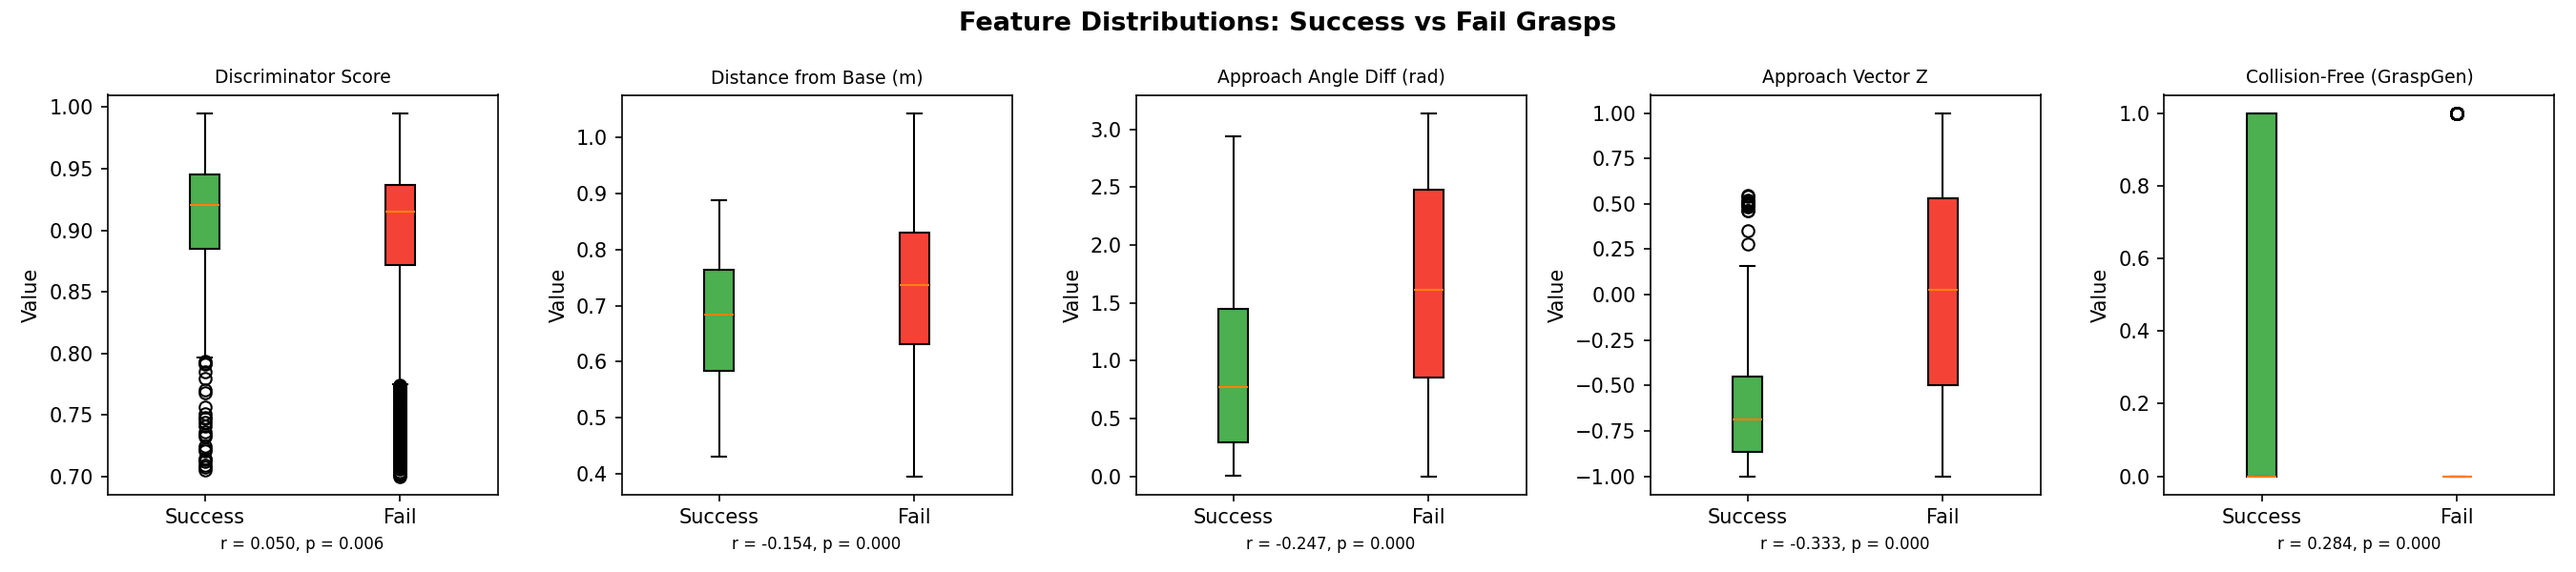
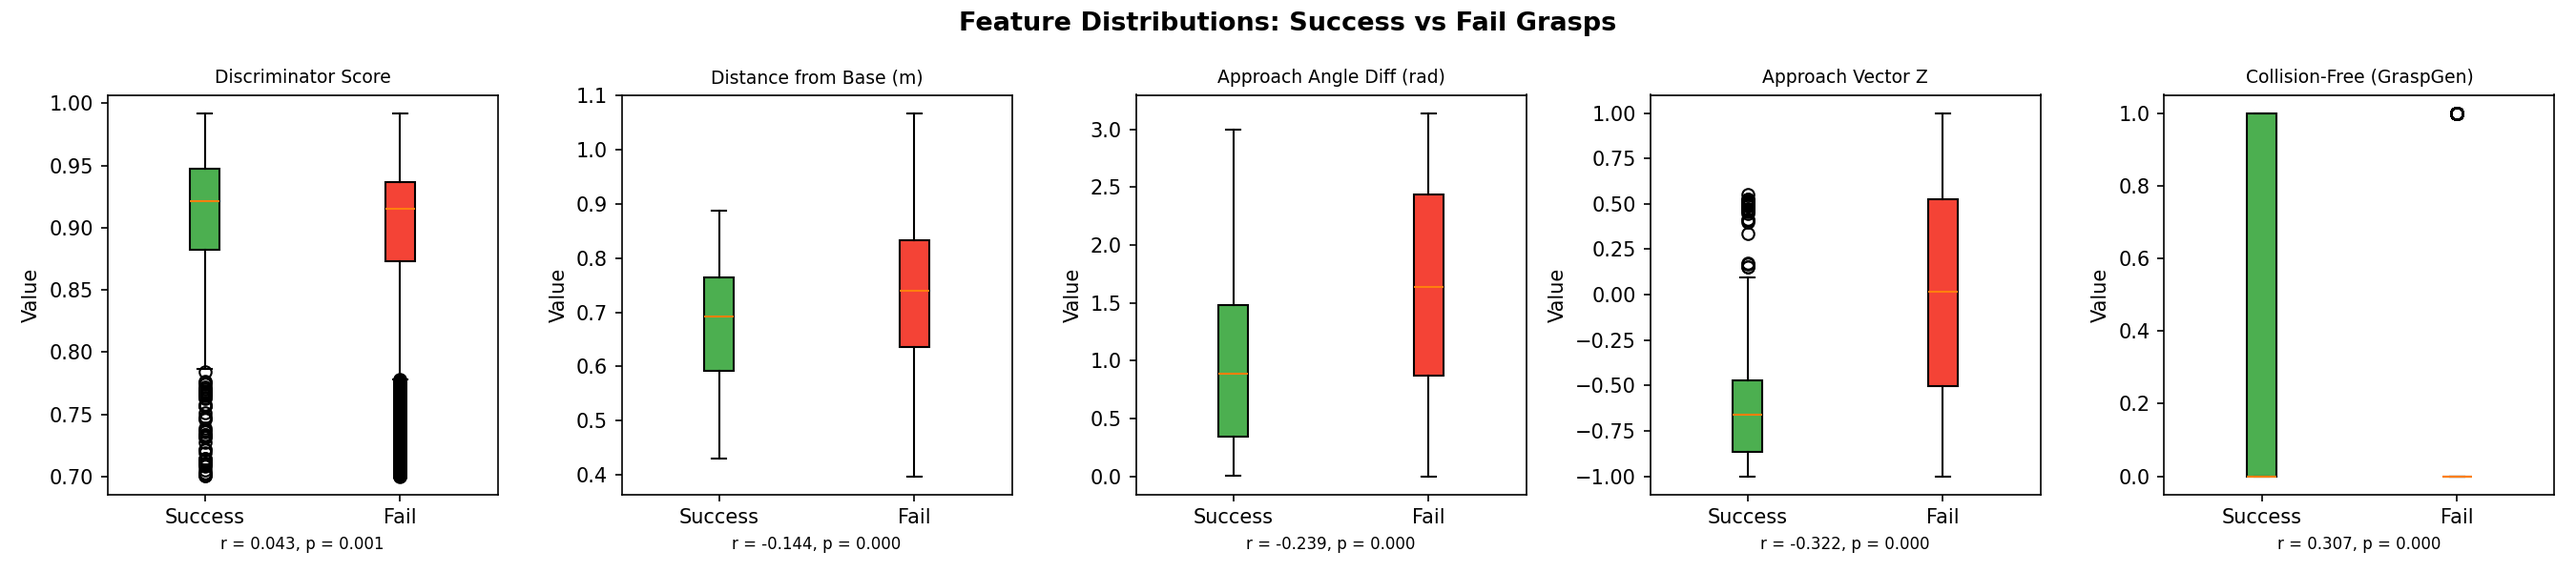
Add strates

diff --git a/analysis/analyze_grasps.py b/analysis/analyze_grasps.py
@@ -12,7 +12,7 @@ import matplotlib.pyplot as plt
 import numpy as np
 from scipy import stats
 from sklearn.linear_model import LogisticRegression
-from sklearn.model_selection import StratifiedKFold, cross_val_score
+from sklearn.model_selection import LeaveOneGroupOut, cross_val_score
 from sklearn.preprocessing import StandardScaler
 from sklearn.utils.class_weight import compute_class_weight
 from xgboost import XGBClassifier
@@ -46,7 +46,7 @@ def load_all_data() -> list[dict[str, object]]:
     """
     records = []
     for scenario in SCENARIOS:
-        for i in range(1, 6):
+        for i in range(1, 11):
             path = DATA_ROOT / scenario / "result_data" / f"{i}.json"
             with open(path) as f:
                 data = json.load(f)
@@ -180,6 +180,11 @@ def train_and_evaluate(
 ) -> tuple[LogisticRegression, StandardScaler, XGBClassifier]:
     """Train logistic regression and XGBoost, evaluate with cross-validation.
 
+    ROC-AUC is evaluated with leave-one-scene-out CV (each fold holds out all
+    200 grasps of one scene), so the model is always scored on a scene it has
+    never seen — matching how topk_table evaluates. A fold whose held-out scene
+    has no successful grasp yields an undefined AUC and is skipped (NaN).
+
     Args:
         records (list[dict[str, object]]): Grasp records with features and labels.
 
@@ -189,6 +194,7 @@ def train_and_evaluate(
     """
     X = np.array([[r[f] for f in FEATURE_NAMES] for r in records])  # noqa: N806
     y = np.array([r["success"] for r in records])
+    groups = np.array([f"{r['scenario']}/{r['file']}" for r in records])
 
     scaler = StandardScaler()
     X_scaled = scaler.fit_transform(X)  # noqa: N806
@@ -207,26 +213,54 @@ def train_and_evaluate(
         verbosity=0,
     )
 
-    cv = StratifiedKFold(n_splits=5, shuffle=True, random_state=42)
+    cv = LeaveOneGroupOut()
 
-    lr_auc = cross_val_score(lr, X_scaled, y, cv=cv, scoring="roc_auc")
-    xgb_auc = cross_val_score(xgb, X, y, cv=cv, scoring="roc_auc")
+    lr_auc = cross_val_score(
+        lr, X_scaled, y, cv=cv, groups=groups, scoring="roc_auc", error_score=np.nan
+    )
+    xgb_auc = cross_val_score(
+        xgb, X, y, cv=cv, groups=groups, scoring="roc_auc", error_score=np.nan
+    )
+    lr_ap = cross_val_score(
+        lr,
+        X_scaled,
+        y,
+        cv=cv,
+        groups=groups,
+        scoring="average_precision",
+        error_score=np.nan,
+    )
+    xgb_ap = cross_val_score(
+        xgb, X, y, cv=cv, groups=groups, scoring="average_precision", error_score=np.nan
+    )
+    n_valid = np.count_nonzero(~np.isnan(lr_auc))
+    if n_valid < len(lr_auc):
+        print(
+            f"\nNote: {len(lr_auc) - n_valid} of {len(lr_auc)} held-out scenes "
+            "have no successful grasp; their folds are excluded from the AUC."
+        )
 
-    from sklearn.metrics import roc_auc_score
+    from sklearn.metrics import average_precision_score, roc_auc_score
 
-    disc_auc = roc_auc_score(y, X[:, FEATURE_NAMES.index("discriminator_score")])
+    disc_scores = X[:, FEATURE_NAMES.index("discriminator_score")]
+    disc_auc = roc_auc_score(y, disc_scores)
+    disc_ap = average_precision_score(y, disc_scores)
+    print(f"\nNo-skill PR-AUC baseline (positive rate): {y.mean():.3f}")
     print("\nDiscriminator Score (no model)")
     print(f"  ROC-AUC: {disc_auc:.3f}")
+    print(f"  PR-AUC : {disc_ap:.3f}")
 
-    print("\nLogistic Regression (5-fold CV)")
-    print(f"  ROC-AUC: {lr_auc.mean():.3f} ± {lr_auc.std():.3f}")
+    print("\nLogistic Regression (leave-one-scene-out CV)")
+    print(f"  ROC-AUC: {np.nanmean(lr_auc):.3f} ± {np.nanstd(lr_auc):.3f}")
+    print(f"  PR-AUC : {np.nanmean(lr_ap):.3f} ± {np.nanstd(lr_ap):.3f}")
     lr.fit(X_scaled, y)
     print("  Feature coefficients:")
     for name, coef in zip(FEATURE_NAMES, lr.coef_[0], strict=True):
         print(f"    {FEATURE_LABELS[name]:35s}: {coef:+.3f}")
 
-    print("\nXGBoost (5-fold CV)")
-    print(f"  ROC-AUC: {xgb_auc.mean():.3f} ± {xgb_auc.std():.3f}")
+    print("\nXGBoost (leave-one-scene-out CV)")
+    print(f"  ROC-AUC: {np.nanmean(xgb_auc):.3f} ± {np.nanstd(xgb_auc):.3f}")
+    print(f"  PR-AUC : {np.nanmean(xgb_ap):.3f} ± {np.nanstd(xgb_ap):.3f}")
     xgb.fit(X, y)
     print("  Feature importances:")
     for name, imp in zip(FEATURE_NAMES, xgb.feature_importances_, strict=True):
@@ -241,11 +275,13 @@ def topk_table(
     scaler: StandardScaler,
     xgb: XGBClassifier,
 ) -> None:
-    """Rank grasps by model score and report top-k success rates.
+    """Rank grasps per strategy and report top-k success rates.
 
-    For each scene, rank grasps by model score vs random.
+    Strategies: random ordering (averaged over N_RANDOM shuffles per scene),
+    discriminator score, a collision-free-first heuristic (ties broken by
+    discriminator score), and the two learned models.
     Report: % of scenes with at least one success in top-k, for k = 1,3,5,10,20.
-    Also report mean attempts to first success.
+    Also report mean attempts and mean time to first success.
 
     Args:
         records (list[dict[str, object]]): Grasp records with features and labels.
@@ -261,9 +297,19 @@ def topk_table(
     scene_keys = list(scenes.keys())
 
     K_VALUES = [1, 3, 5, 10, 20]  # noqa: N806
-    results = {k: {"disc": [], "lr": [], "xgb": []} for k in K_VALUES}
-    disc_attempts, lr_attempts, xgb_attempts = [], [], []
-    disc_times, lr_times, xgb_times = [], [], []
+    STRATEGIES = ["rand", "disc", "cfd", "lr", "xgb"]  # noqa: N806
+    STRATEGY_LABELS = {  # noqa: N806
+        "rand": "Random",
+        "disc": "Discriminator",
+        "cfd": "CollFree+Disc",
+        "lr": "Logistic Reg.",
+        "xgb": "XGBoost",
+    }
+    N_RANDOM = 1000  # noqa: N806
+    rng = np.random.default_rng(42)
+    results = {k: {s: [] for s in STRATEGIES} for k in K_VALUES}
+    attempts = {s: [] for s in STRATEGIES}
+    times = {s: [] for s in STRATEGIES}
 
     def first_success(gs: list[dict[str, object]]) -> int:
         for i, g in enumerate(gs):
@@ -279,7 +325,7 @@ def topk_table(
                 return total
         return total
 
-    # Leave-one-scene-out: train on 14 scenes, evaluate on held-out scene
+    # Leave-one-scene-out: train on all other scenes, evaluate on held-out scene
     for held_out_key in scene_keys:
         train_records = [
             r for r in records if (r["scenario"], r["file"]) != held_out_key
@@ -315,51 +361,65 @@ def topk_table(
         xgb_scores = clf_xgb.predict_proba(X_test)[:, 1]
 
         grasps = test_grasps
-        grasps_disc = sorted(grasps, key=lambda g: -g["discriminator_score"])
-        grasps_lr = [
-            g
-            for _, g in sorted(zip(lr_scores, grasps, strict=True), key=lambda x: -x[0])
-        ]
-        grasps_xgb = [
-            g
-            for _, g in sorted(
-                zip(xgb_scores, grasps, strict=True), key=lambda x: -x[0]
-            )
-        ]
+        orders = {
+            "disc": sorted(grasps, key=lambda g: -g["discriminator_score"]),
+            "cfd": sorted(
+                grasps,
+                key=lambda g: (-g["collision_free"], -g["discriminator_score"]),
+            ),
+            "lr": [
+                g
+                for _, g in sorted(
+                    zip(lr_scores, grasps, strict=True), key=lambda x: -x[0]
+                )
+            ],
+            "xgb": [
+                g
+                for _, g in sorted(
+                    zip(xgb_scores, grasps, strict=True), key=lambda x: -x[0]
+                )
+            ],
+        }
 
+        for name, ordered in orders.items():
+            for k in K_VALUES:
+                results[k][name].append(int(any(g["success"] for g in ordered[:k])))
+            attempts[name].append(first_success(ordered))
+            times[name].append(time_to_first_success(ordered))
+
+        # Random baseline: expectation over N_RANDOM shuffles of this scene
+        rand_hits = dict.fromkeys(K_VALUES, 0)
+        rand_attempts, rand_times = [], []
+        shuffled = list(grasps)
+        for _ in range(N_RANDOM):
+            rng.shuffle(shuffled)
+            for k in K_VALUES:
+                rand_hits[k] += any(g["success"] for g in shuffled[:k])
+            rand_attempts.append(first_success(shuffled))
+            rand_times.append(time_to_first_success(shuffled))
         for k in K_VALUES:
-            results[k]["disc"].append(int(any(g["success"] for g in grasps_disc[:k])))
-            results[k]["lr"].append(int(any(g["success"] for g in grasps_lr[:k])))
-            results[k]["xgb"].append(int(any(g["success"] for g in grasps_xgb[:k])))
-
-        disc_attempts.append(first_success(grasps_disc))
-        lr_attempts.append(first_success(grasps_lr))
-        xgb_attempts.append(first_success(grasps_xgb))
-        disc_times.append(time_to_first_success(grasps_disc))
-        lr_times.append(time_to_first_success(grasps_lr))
-        xgb_times.append(time_to_first_success(grasps_xgb))
+            results[k]["rand"].append(rand_hits[k] / N_RANDOM)
+        attempts["rand"].append(float(np.mean(rand_attempts)))
+        times["rand"].append(float(np.mean(rand_times)))
 
     COLORS = {"disc": "#2196F3", "lr": "#FF9800", "xgb": "#4CAF50"}  # noqa: N806
     LABELS = {"disc": "Discriminator", "lr": "Logistic Reg.", "xgb": "XGBoost"}  # noqa: N806
 
     print("\n--- Top-K Success Rate Table ---")
-    print(f"{'k':<6} {'Discriminator':>15} {'Logistic Reg.':>15} {'XGBoost':>10}")
-    print("-" * 48)
+    header = "".join(f"{STRATEGY_LABELS[s]:>16}" for s in STRATEGIES)
+    print(f"{'k':<6}{header}")
+    print("-" * (6 + 16 * len(STRATEGIES)))
     for k in K_VALUES:
-        d = 100 * np.mean(results[k]["disc"])
-        logestic_regression = 100 * np.mean(results[k]["lr"])
-        x = 100 * np.mean(results[k]["xgb"])
-        print(f"{k:<6} {d:>14.1f}% {logestic_regression:>14.1f}% {x:>9.1f}%")
+        row = "".join(f"{100 * np.mean(results[k][s]):>15.1f}%" for s in STRATEGIES)
+        print(f"{k:<6}{row}")
 
     print("\nMean attempts to first success:")
-    print(f"  Discriminator : {np.mean(disc_attempts):.1f}")
-    print(f"  Logistic Reg. : {np.mean(lr_attempts):.1f}")
-    print(f"  XGBoost       : {np.mean(xgb_attempts):.1f}")
+    for s in STRATEGIES:
+        print(f"  {STRATEGY_LABELS[s]:14s}: {np.mean(attempts[s]):.1f}")
 
     print("\nMean time to first success (s):")
-    print(f"  Discriminator : {np.mean(disc_times):.2f}")
-    print(f"  Logistic Reg. : {np.mean(lr_times):.2f}")
-    print(f"  XGBoost       : {np.mean(xgb_times):.2f}")
+    for s in STRATEGIES:
+        print(f"  {STRATEGY_LABELS[s]:14s}: {np.mean(times[s]):.2f}")
 
     # Plot
     fig, axes = plt.subplots(1, 3, figsize=(20, 5))
@@ -393,11 +453,7 @@ def topk_table(
 
     # Subplot 2: Mean attempts to first success
     ax2 = axes[1]
-    attempt_means = [
-        np.mean(disc_attempts),
-        np.mean(lr_attempts),
-        np.mean(xgb_attempts),
-    ]
+    attempt_means = [np.mean(attempts[s]) for s in ["disc", "lr", "xgb"]]
     bars2 = ax2.bar(
         list(LABELS.values()),
         attempt_means,
@@ -418,7 +474,7 @@ def topk_table(
 
     # Subplot 3: Mean time to first success
     ax3 = axes[2]
-    time_means = [np.mean(disc_times), np.mean(lr_times), np.mean(xgb_times)]
+    time_means = [np.mean(times[s]) for s in ["disc", "lr", "xgb"]]
     bars3 = ax3.bar(
         list(LABELS.values()),
         time_means,
